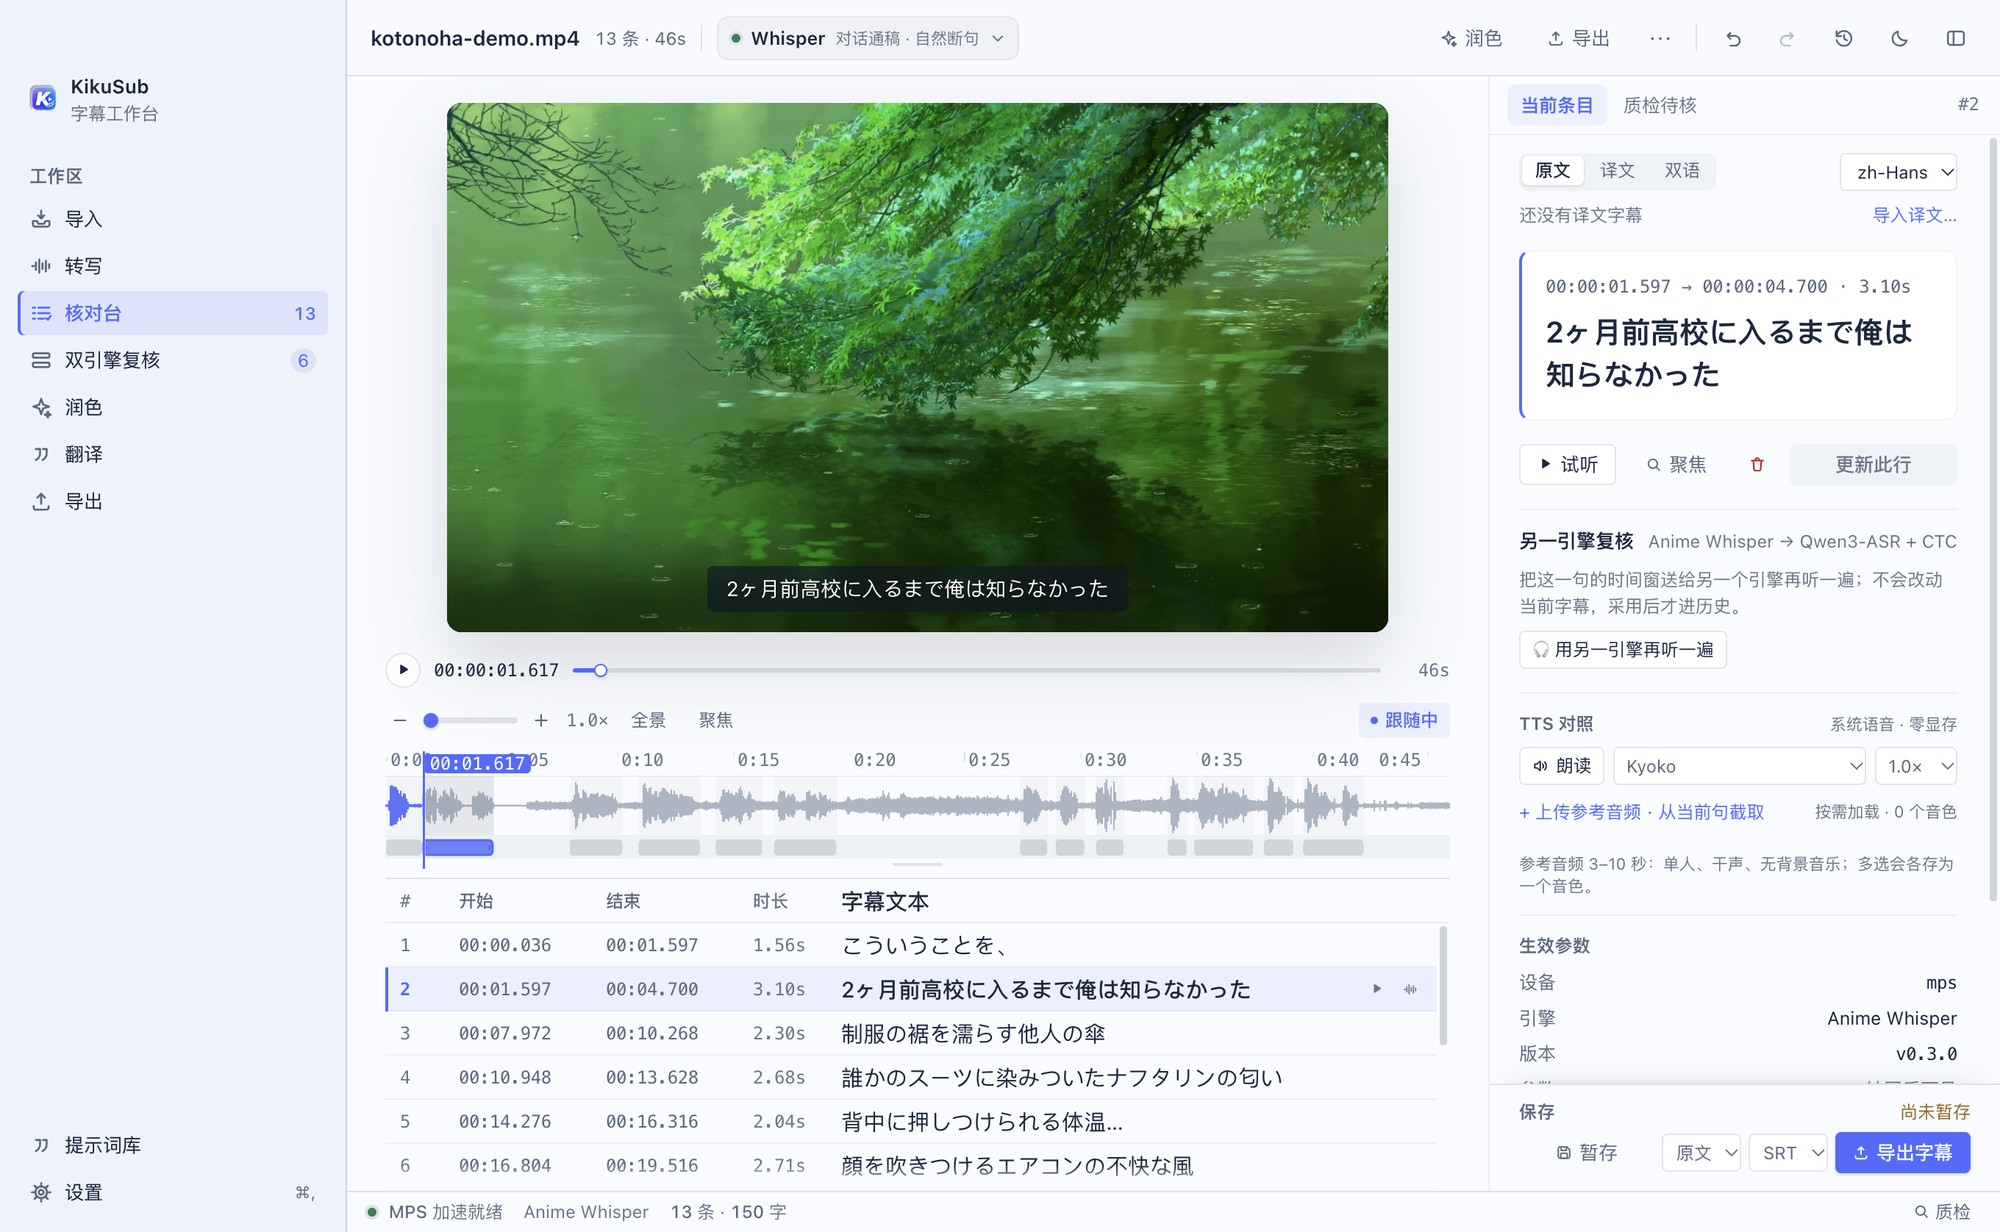
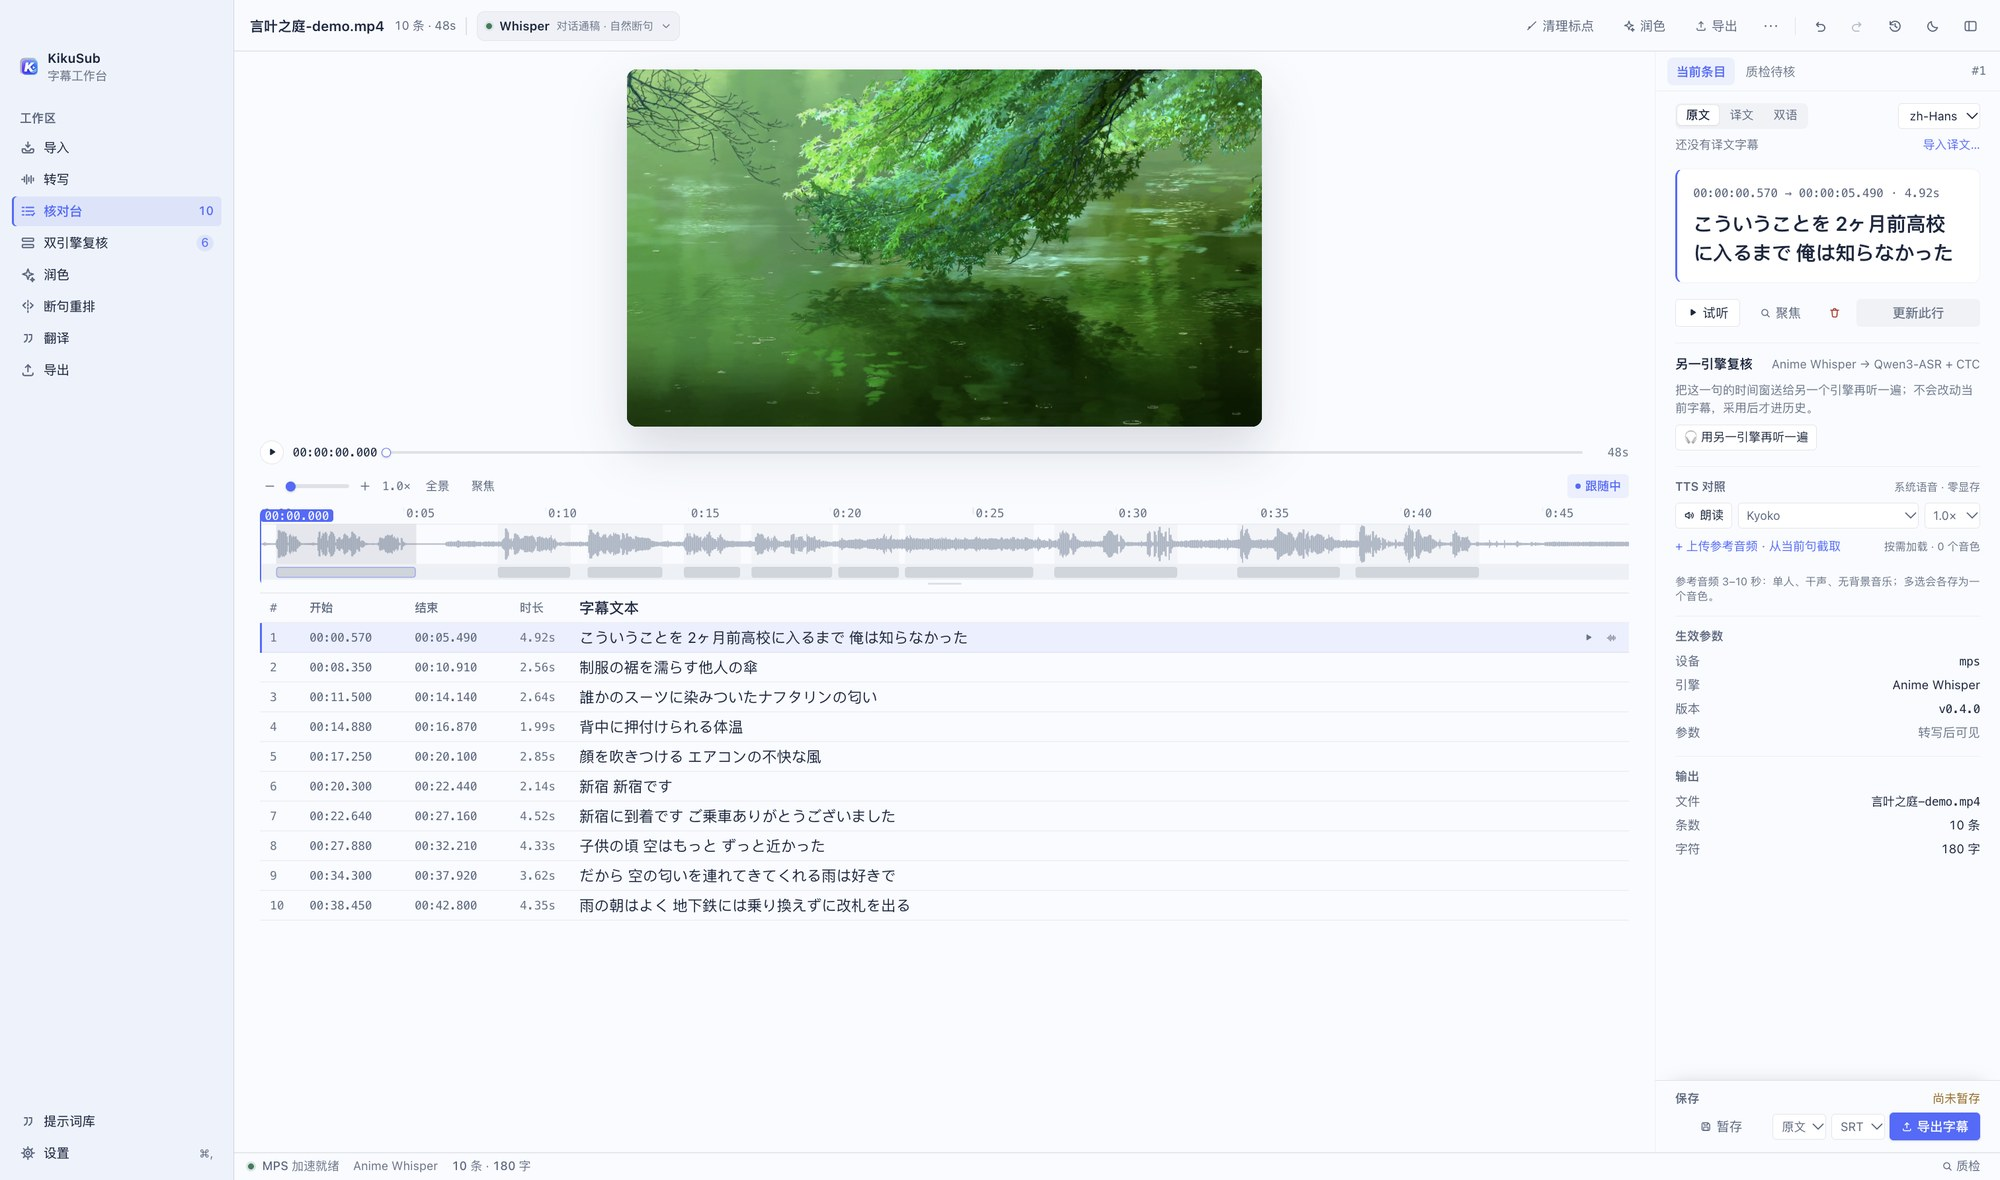
docs: 0.4.0 界面截图与 README
- 六张图全部用当前版本重拍：演示素材换成《言叶之庭》38s 起的 48 秒片段，
  字幕取自官方中日双语 SRT 的日文轨（不带任何敏感画面）
- 设置页截图改拍「引擎与模型」页签（版本号 v0.4.0 可见），文件重命名为 settings.jpg
- 转写页截图从「核对台」小节挪回「导入与转写」，与说明文字对应
- 发版清单补上 server/__init__.py 的 API_VERSION（与 package.json 必须同步）

diff --git a/README_EN.md b/README_EN.md
@@ -21,7 +21,7 @@
 
 ![Review desk: video monitor, waveform timeline, subtitle lane and inspector](docs/images/workbench.jpg)
 
-> The source and subtitles in the screenshots are demo data; the UI is from the current build.
+> The source and subtitles in the screenshots are demo data (footage: *The Garden of Words*); the UI is from the current build.
 
 ---
 
@@ -32,7 +32,7 @@ A Japanese subtitle tool that runs **entirely on your own machine**. Your video 
 - **Transcribe** — Silero VAD segments the speech, then a switchable Japanese engine produces timed subtitles.
 - **Review** — video and waveform side by side; drag a cue block to retime it, double-click to edit, ⌘Z to undo.
 - **QA** — missed speech, dropped lines and suspicious short cues are merged into one queue you can audition and patch.
-- **AI polish / translate / structure suggestions** — your own model produces a *proposal*; you diff it in two columns, then apply the batch. A separate structure lane accepts the model's ops (merge / retime / replace text / insert / delete), previews them, and applies the selection atomically. Translations live in a parallel track and export as source, target or bilingual.
+- **AI polish / structure suggestions / re-segmentation / translate** — your own model produces a *proposal*; you diff it in two columns, then apply the batch. A structure lane accepts the model's ops (merge / retime / replace text / insert / delete), previews them, and applies the selection atomically; a re-segmentation lane replaces whole index ranges from a complete SRT. Translations live in a parallel track and export as source, target or bilingual.
 - **Prompt library** — prompt templates as cards: click to select, double-click to edit; copying fills in the current SRT.
 - **Export** — SRT / VTT / TXT, or a one-click video export with burned-in / soft subtitles, resolution and a "small / sweet spot / high / ultra" bitrate ladder.
 - **Export settings are undoable too** — font size, outline, presets, mode, track, resolution and quality share one history with subtitles, translations, QA state and AI suggestion edits; ⌘Z always undoes the most recent step, and the history panel is a single list.
@@ -62,9 +62,9 @@ Everything except the optional AI features is local inference.
 - **Import source and target tracks separately**: the Transcribe page's “existing subtitles” cards can load a source SRT/VTT or a target SRT/VTT aligned to the current source; the Review desk “⋯” menu can delete either track independently, so a restart no longer forces a full re-transcription just to restore translations.
 - Hallucination gate: segments transcribed but re-checked as empty are dropped, suspicious short cues are marked, and the per-segment details go into the task report.
 
-**Review desk**
-
 ![Parameters: engine, time range, output format and result handling](docs/images/transcribe.jpg)
+
+**Review desk**
 
 - Video, waveform, cue table and inspector stay in sync: when the playhead enters a cue, the table scrolls to it and selects it.
 - The waveform is fetched per visible window; scroll / pinch to zoom, two-finger pan or ⌥-drag to move. Zoom goes far enough to see a fraction of a second.
@@ -120,7 +120,7 @@ Everything except the optional AI features is local inference.
 
 **Settings & runtime**
 
-![Settings: engines & models, appearance & voice, AI & skills, environment & diagnostics](docs/images/settings-ai.jpg)
+![Settings: engines & models, appearance & voice, AI & skills, environment & diagnostics](docs/images/settings.jpg)
 
 - Settings is split into four tabs: **Engines & models / Appearance & voice / AI & skills / Environment & diagnostics**.
 - Engine cards come from a registry: language, purpose, size, install state, enable toggle, one-click download. Anime Whisper / Qwen3 / OmniVoice share one progress track for **Verify / Fill gaps**: verification uses an indeterminate sweep, downloads use real percentages, and completion briefly turns green before collapsing.

diff --git a/README.md b/README.md
@@ -21,7 +21,7 @@
 
 ![核对台：视频监看、波形时间轴、字幕轨道与右侧检查器](docs/images/workbench.jpg)
 
-> 截图里的片源与字幕是演示数据，界面来自当前版本。
+> 截图里的片源与字幕是演示数据（片源：《言叶之庭》），界面来自当前版本。
 
 ---
 
@@ -32,7 +32,7 @@
 - **转写**：Silero VAD 切分语音，交给可切换的日语识别引擎，输出带时间轴的字幕。
 - **核对**：视频与波形同屏，边看边改；拖字幕块就能改时间，双击改字，⌘Z 撤回。
 - **质检**：把「可能漏句」「误删待核」「短句可疑」合成一条待核队列，逐条试听、补录。
-- **双引擎复核 / 润色 / 翻译**：另一引擎的整片稿进第二列做只读 diff 对照；双源润色同时参考 A/B，仍严格以 A 的时间轴为骨架；**结构建议**承接外部模型返回的 ops（合并 / 改时间 / 改文字 / 新增 / 删除），预览后原子应用；翻译进独立平行轨，可导出原文 / 译文 / 双语。
+- **双引擎复核 / 润色 / 结构建议 / 断句重排 / 翻译**：另一引擎的整片稿进第二列做只读 diff 对照；双源润色同时参考 A/B，仍严格以 A 的时间轴为骨架；**结构建议**承接外部模型返回的 ops（合并 / 改时间 / 改文字 / 新增 / 删除），预览后原子应用；**断句重排**让外部模型整份换稿（条数、切分、时间码都能变）；翻译进独立平行轨，可导出原文 / 译文 / 双语。
 - **提示词库**：提示词模板卡片化，单击选中、双击编辑；复制时自动填入当前字幕的 SRT。
 - **导出**：SRT / VTT / TXT，或一键导出带字幕的成片——可选分辨率、「小 / 甜点 / 高 / 极高」码率、烧录硬字幕 / 软字幕 / 仅封装。
 
@@ -57,9 +57,9 @@
 - **原文轨与译文轨分别导入**：转写页的「已有字幕」可单独补原文字幕或与当前原文逐条对齐的译文字幕；核对台的「⋯」里也能分别删除原文轨 / 译文轨，重开应用后不必为了补译文重跑转写
 - 幻觉门控：识别出但复核为空的整段会被丢弃，可疑短句标出，逐段明细写进任务报告
 
-**核对台**
-
 ![选择参数：引擎、时间区间、输出格式与结果处理](docs/images/transcribe.jpg)
+
+**核对台**
 
 - 视频、波形、字幕表、检查器四块联动；播放头进入某句，表格自动滚到该句并选中
 - 波形按可视窗口取包络，滚轮 / 捏合缩放，双指横移或 ⌥ 拖动平移，最大可放大到零点几秒
@@ -117,7 +117,7 @@
 
 **设置与运行**
 
-![设置页：引擎与模型、外观与朗读、AI 与技能、环境与诊断](docs/images/settings-ai.jpg)
+![设置页：引擎与模型、外观与朗读、AI 与技能、环境与诊断](docs/images/settings.jpg)
 
 - 设置页分四个页签：**引擎与模型 / 外观与朗读 / AI 与技能 / 环境与诊断**
 - 引擎卡片按注册表渲染：语种、用途、体积、安装状态、启用开关、一键下载；Anime Whisper / Qwen3 / OmniVoice 的「校验 / 补齐」共用同一条进度轨道，校验走不确定进度、下载走真实百分比，完成时短暂变绿再收起

diff --git a/docs/release.md b/docs/release.md
@@ -49,8 +49,10 @@ cd desktop && npm run build && npm run test:main && cd ..
 git push origin app/macos          # CI: lint + pytest + smoke 必须绿
 
 # 3) bump 版本号（在开发分支上，作为一个独立提交）
-#    编辑 desktop/package.json 的 version + desktop/package-lock.json 的根版本
-git commit -am "chore(release): 0.3.0"
+#    三处必须一起改：desktop/package.json 的 version、desktop/package-lock.json 的根版本、
+#    server/__init__.py 的 API_VERSION（界面「生效参数 / About」读的是它，
+#    tests/test_pack_version.py 会拦不一致）
+git commit -am "chore(release): 0.4.0"
 
 # 4) 合入主线
 git checkout main
